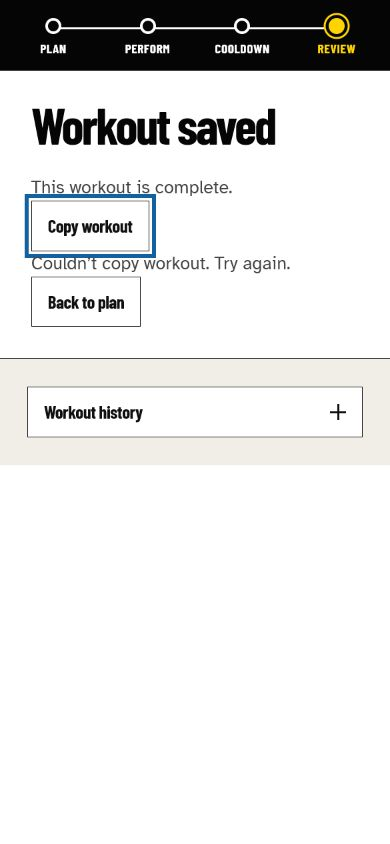
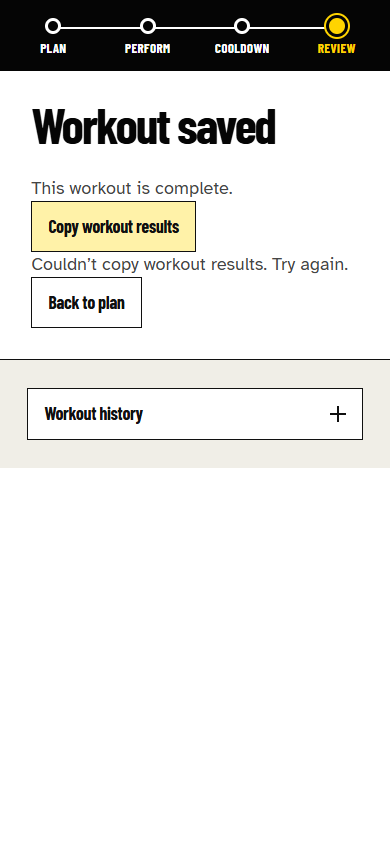
Clarify workout result copy

diff --git a/src/tests/WorkoutView.test.jsx b/src/tests/WorkoutView.test.jsx
@@ -864,14 +864,14 @@ test('copies the frozen saved workout, keeps focus, reannounces success, and lea
   fireEvent.click(screen.getByRole('button', { name: /Squat exercise 1 set 1 confirm/i }));
   fireEvent.click(screen.getByRole('button', { name: 'Finish workout' }));
   fireEvent.click(screen.getByRole('button', { name: 'Save workout' }));
-  const copy = await screen.findByRole('button', { name: 'Copy workout' });
+  const copy = await screen.findByRole('button', { name: 'Copy workout results' });
   expect(storage.getHistoryPage).not.toHaveBeenCalled();
   fireEvent.click(copy);
   await waitFor(() => expect(writeText).toHaveBeenCalledWith('Squat\n1 set\n0:00'));
-  expect(screen.getByText('Workout copied.', { selector: '[role="status"]' })).toBeDefined();
+  expect(screen.getByText('Workout results copied.', { selector: '[role="status"]' })).toBeDefined();
   expect(copy).toBe(document.activeElement);
   fireEvent.click(copy);
-  await waitFor(() => expect(screen.getByText(/^Workout copied\.\u2060$/, { selector: '[role="status"]' })).toBeDefined());
+  await waitFor(() => expect(screen.getByText(/^Workout results copied\.\u2060$/, { selector: '[role="status"]' })).toBeDefined());
   expect(view.api.save).toHaveBeenCalledOnce();
 });
 
@@ -890,31 +890,31 @@ test('copies the frozen mixed saved candidate after live workout state is replac
   const view = render(renderState({ status: 'review', activeWorkout: review, blocked: false }));
   await screen.findByRole('heading', { level: 2, name: 'Review' });
   view.rerender(renderState({ status: 'saved', activeWorkout: { exercises: [] }, blocked: false }));
-  const copy = await screen.findByRole('button', { name: 'Copy workout' });
+  const copy = await screen.findByRole('button', { name: 'Copy workout results' });
   expect(storage.getHistoryPage).not.toHaveBeenCalled();
   fireEvent.click(copy);
   await waitFor(() => expect(writeText).toHaveBeenCalledWith('Carry\n1 set\n0:00\n\nA1. Long Row Exercise Name\n1 set\n0:00\n\nA2. Long Press Exercise Name\n1 set\n0:00'));
 });
 
-test('keeps Copy workout enabled and focused after clipboard absence or rejection, then replaces the error on retry', async () => {
+test('keeps Copy workout results enabled and focused after clipboard absence or rejection, then replaces the error on retry', async () => {
   const view = renderWorkout([{ ...timedWorkout[1] }]);
   fireEvent.click(screen.getByRole('button', { name: 'Start workout' }));
   fireEvent.click(screen.getByRole('button', { name: /Squat exercise 1 set 1 start/i }));
   fireEvent.click(screen.getByRole('button', { name: /Squat exercise 1 set 1 confirm/i }));
   fireEvent.click(screen.getByRole('button', { name: 'Finish workout' }));
   fireEvent.click(screen.getByRole('button', { name: 'Save workout' }));
-  const copy = await screen.findByRole('button', { name: 'Copy workout' });
+  const copy = await screen.findByRole('button', { name: 'Copy workout results' });
   Object.assign(navigator, { clipboard: undefined });
   fireEvent.click(copy);
-  expect(screen.getByRole('alert').textContent).toBe('Couldn\u2019t copy workout. Try again.');
+  expect(screen.getByRole('alert').textContent).toBe('Couldn\u2019t copy workout results. Try again.');
   expect(copy.disabled).toBe(false); expect(copy).toBe(document.activeElement);
   const writeText = vi.fn().mockRejectedValueOnce(new Error('denied')).mockResolvedValueOnce(undefined);
   Object.assign(navigator, { clipboard: { writeText } });
   fireEvent.click(copy);
-  await waitFor(() => expect(screen.getByRole('alert').textContent).toBe('Couldn\u2019t copy workout. Try again.'));
+  await waitFor(() => expect(screen.getByRole('alert').textContent).toBe('Couldn\u2019t copy workout results. Try again.'));
   expect(copy).toBe(document.activeElement);
   fireEvent.click(copy);
-  await waitFor(() => expect(screen.getByText('Workout copied.', { selector: '[role="status"]' })).toBeDefined());
+  await waitFor(() => expect(screen.getByText('Workout results copied.', { selector: '[role="status"]' })).toBeDefined());
   expect(screen.queryByRole('alert')).toBeNull();
   expect(view.api.save).toHaveBeenCalledOnce();
 });

diff --git a/src/components/WorkoutView.jsx b/src/components/WorkoutView.jsx
@@ -574,9 +574,9 @@ export default function WorkoutView({ session, sessionState, onFinish, onResume 
     try {
       if (!navigator.clipboard?.writeText) throw new Error('Clipboard unavailable');
       await navigator.clipboard.writeText(formatWorkoutClipboard(finishCandidate));
-      setClipboardFeedback(current => refreshRepeatedLiveMessage(current, 'Workout copied.'));
+      setClipboardFeedback(current => refreshRepeatedLiveMessage(current, 'Workout results copied.'));
     } catch {
-      setClipboardFeedback('Couldn\u2019t copy workout. Try again.');
+      setClipboardFeedback('Couldn\u2019t copy workout results. Try again.');
     }
     copyRef.current?.focus();
   };
@@ -671,7 +671,7 @@ export default function WorkoutView({ session, sessionState, onFinish, onResume 
       </section>
     </div>;
   }
-  if (sessionState?.status === 'saved') return <div className="workout-view"><JourneyProgress current="Review" /><section className="workout-summary"><h2 ref={savedRef} tabIndex="-1">Workout saved</h2><p role="status">This workout is complete.</p><button ref={copyRef} type="button" className="recovery-secondary" onClick={copyWorkout}>Copy workout</button>{clipboardFeedback && <p role={normalizeLiveMessage(clipboardFeedback) === 'Workout copied.' ? 'status' : 'alert'} aria-live={normalizeLiveMessage(clipboardFeedback) === 'Workout copied.' ? 'polite' : 'assertive'} aria-atomic="true">{clipboardFeedback}</p>}<button type="button" className="recovery-secondary" onClick={() => onFinish?.()}>Back to plan</button></section><WorkoutHistory key={user?.uid ?? null} historyKey={user?.uid ?? null} loadPage={({ cursor, pageSize }) => getHistoryPage(user?.uid, { cursor, pageSize })} /></div>;
+  if (sessionState?.status === 'saved') return <div className="workout-view"><JourneyProgress current="Review" /><section className="workout-summary"><h2 ref={savedRef} tabIndex="-1">Workout saved</h2><p role="status">This workout is complete.</p><button ref={copyRef} type="button" className="recovery-secondary" onClick={copyWorkout}>Copy workout results</button>{clipboardFeedback && <p role={normalizeLiveMessage(clipboardFeedback) === 'Workout results copied.' ? 'status' : 'alert'} aria-live={normalizeLiveMessage(clipboardFeedback) === 'Workout results copied.' ? 'polite' : 'assertive'} aria-atomic="true">{clipboardFeedback}</p>}<button type="button" className="recovery-secondary" onClick={() => onFinish?.()}>Back to plan</button></section><WorkoutHistory key={user?.uid ?? null} historyKey={user?.uid ?? null} loadPage={({ cursor, pageSize }) => getHistoryPage(user?.uid, { cursor, pageSize })} /></div>;
   return <div className={`workout-view phase-${activeWorkout.phase}`}>
     <div className="visually-hidden" role="status" aria-live="polite" aria-atomic="true">{restAnnouncement || recoveryAcknowledgement}</div>
     <JourneyProgress current={finishCandidate ? 'Review' : journeyStep} />

diff --git a/docs/templates/ux-evidence-matrix.md b/docs/templates/ux-evidence-matrix.md
@@ -519,9 +519,9 @@ the safe method attempted and the best available alternative.
 
 - Scenario: Copy a frozen mixed workout containing one standalone exercise and one two-member superset from the saved endpoint.
 - Build / commit: `codex/trek-286-copy-workout` working tree after 81 focused tests, lint, build, code review, and task-conformance review passed.
-- Viewport and starting state: In-app Chromium at 1280 x 720 and 390 x 844; synthetic production `WorkoutView` fixture with completed Carry, Long Row Exercise Name, and Long Press Exercise Name records and exact row/press superset membership.
-- Actions: Save the frozen Review candidate; confirm the saved heading focus and collapsed history; activate Copy workout; inspect feedback, focus, geometry, overflow, console, and the browser clipboard.
-- Observed result: `Workout saved` received focus before interaction. Copy appears before Back to plan with the same neutral styling. Native clipboard output was exactly `Carry\n1 set\n0:12\n\nA1. Long Row Exercise Name\n1 set\n0:23\n\nA2. Long Press Exercise Name\n1 set\n0:34`. Success rendered `Workout copied.` in a separate polite status; Copy remained enabled and focused. Copy, Back, and History measured 50.53px high; the phone document measured 390/390 client/scroll width and desktop measured 1280/1280. History remained collapsed (`aria-expanded=false`) and a fresh browser run logged no warnings or errors.
+- Viewport and starting state: Local Chromium at 1280 x 720 and 390 x 844; synthetic production `WorkoutView` fixture with completed Carry, Long Row Exercise Name, and Long Press Exercise Name records and exact row/press superset membership.
+- Actions: Save the frozen Review candidate; confirm the saved heading focus and collapsed history; activate Copy workout results; inspect feedback, focus, geometry, overflow, console, and the browser clipboard.
+- Observed result: `Workout saved` received focus before interaction. Copy workout results appears before Back to plan with the same neutral styling. Native clipboard output was exactly `Carry\n1 set\n0:12\n\nA1. Long Row Exercise Name\n1 set\n0:23\n\nA2. Long Press Exercise Name\n1 set\n0:34`. Success rendered `Workout results copied.` in a separate polite status; Copy workout results remained enabled and focused. Copy, Back, and History measured 51.19px high; the phone document measured 390/390 client/scroll width and desktop measured 1280/1280. History remained collapsed (`aria-expanded=false`), and a fresh browser request check found no failed responses.
 - Rendered evidence: `.impeccable/evidence/trek-286-copy-saved-desktop.png` and `.impeccable/evidence/trek-286-copy-success-mobile.png`.
 - Material limitation: A temporary synthetic timing-harness fixture rendered the production component without storage, routing, or personal data and was removed after capture. The selected browser's synthetic keyboard injection did not advance Tab or create trusted Clipboard user activation, so exact Tab/Enter/Space traversal is supported by the native `button` element, visible focus evidence, and focused component tests rather than claimed as a browser-observed keyboard sequence. Chromium evidence does not replace physical-device or assistive-technology testing.
 
@@ -529,8 +529,8 @@ the safe method attempted and the best available alternative.
 
 - Scenario: Recover from clipboard rejection and retry without losing the saved workout or action focus.
 - Build / commit: Same TREK-286 working tree.
-- Viewport and starting state: In-app Chromium at 390 x 844 on the same synthetic mixed saved workout; harness rejected the first native `writeText` call and delegated the next call to the browser clipboard.
-- Actions: Activate Copy workout once to reject, inspect the error and focus, then activate the same enabled control again.
-- Observed result: First activation rendered the sole assertive alert `Couldn’t copy workout. Try again.` while Copy stayed enabled and focused. Retry removed the alert, rendered the polite `Workout copied.` status, retained focus, and wrote the exact standalone/A1/A2 text. The viewport remained 390/390 with no horizontal overflow and History stayed collapsed.
+- Viewport and starting state: Local Chromium at 390 x 844 on the same synthetic mixed saved workout; harness rejected the first native `writeText` call and delegated the next call to the browser clipboard.
+- Actions: Activate Copy workout results once to reject, inspect the error and focus, then activate the same enabled control again.
+- Observed result: First activation rendered the sole assertive alert `Couldn’t copy workout results. Try again.` while Copy workout results stayed enabled and focused. Retry removed the alert, rendered the polite `Workout results copied.` status, retained focus, and wrote the exact standalone/A1/A2 text. The viewport remained 390/390 with no horizontal overflow and History stayed collapsed.
 - Rendered evidence: `.impeccable/evidence/trek-286-copy-error-mobile.png`; the succeeding state is `.impeccable/evidence/trek-286-copy-success-mobile.png`.
 - Material limitation: Rejection was deterministic synthetic browser behavior; it proves the production recovery presentation and transition, not every browser permission prompt or secure-context policy.
